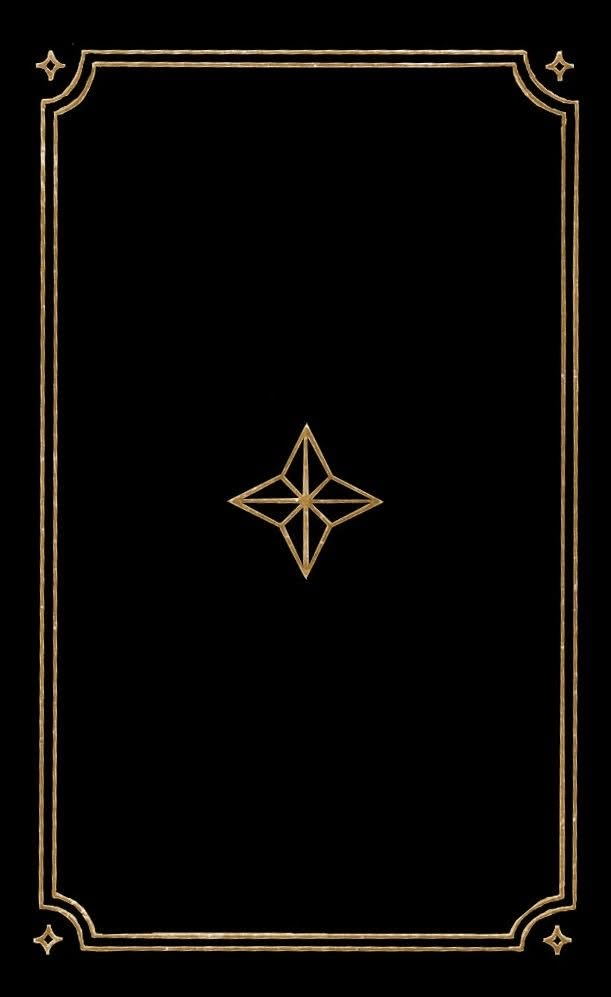
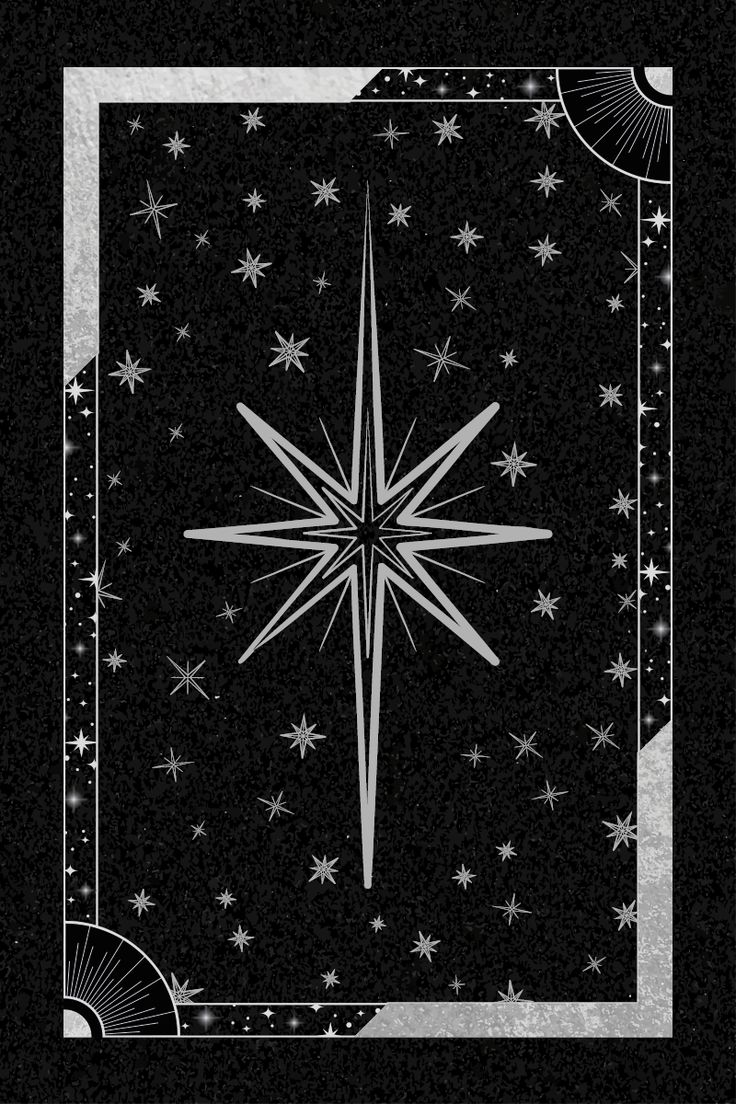
fixed bs

diff --git a/src/styles/PlayingCard.css b/src/styles/PlayingCard.css
@@ -136,3 +136,21 @@
   margin: 0;
   padding: 0;
 }
+
+/* square card corners */
+.card,
+.my-card,
+.card-face,
+.card-back,
+.deck,
+.discard,
+.drag-ghost,
+.meld-card,
+.modal-card,
+.playing-card,
+.playing-card.small,
+.playing-card.photo-card,
+.playing-card.photo-card.small,
+.photo-card img {
+  border-radius: 0 !important;
+}

diff --git a/src/utils/fly.js b/src/utils/fly.js
@@ -21,7 +21,7 @@ export function flyCard({
     top: from.top + "px",
     width: from.width + "px",
     height: from.height + "px",
-    borderRadius: "9px",
+    borderRadius: "0",
     overflow: "hidden",
     zIndex: "1500",
     pointerEvents: "none"
